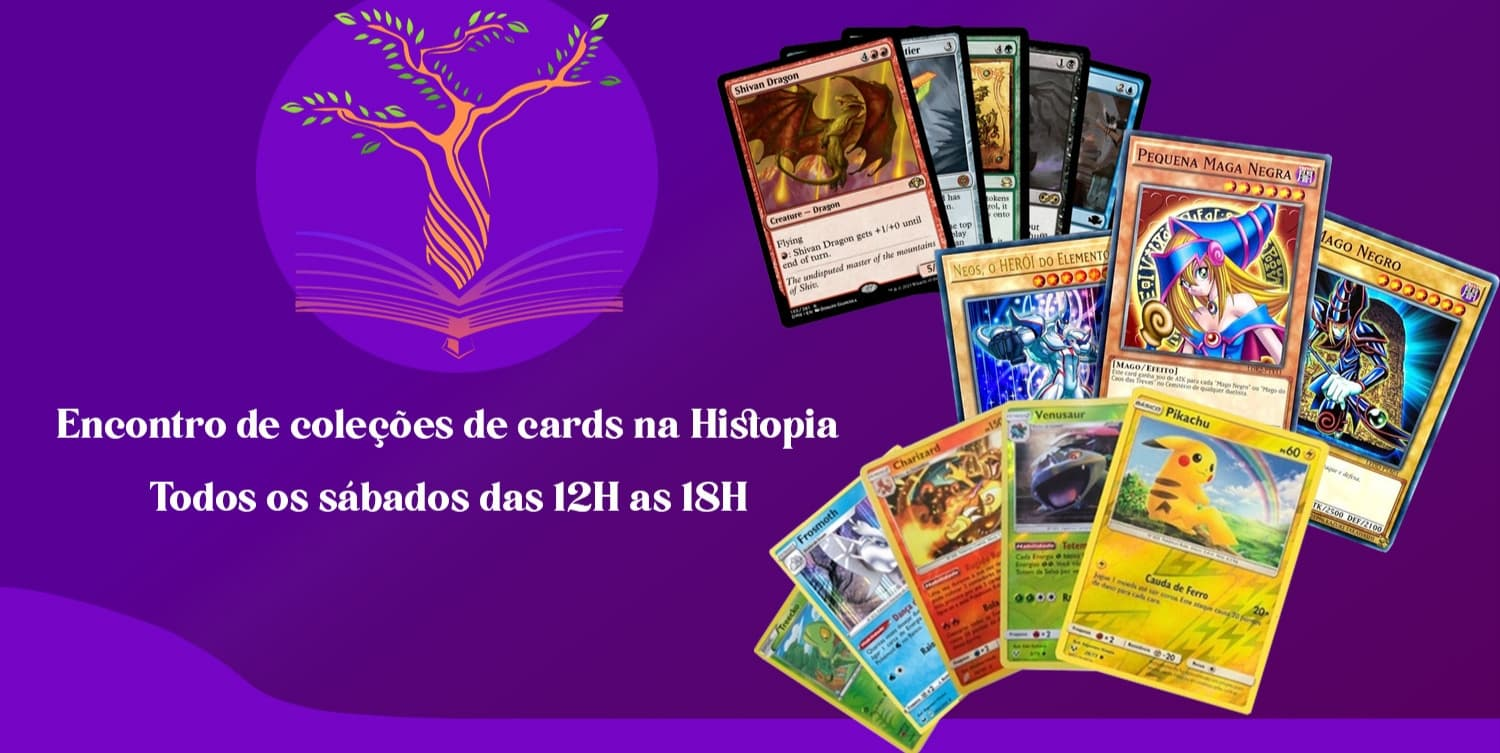
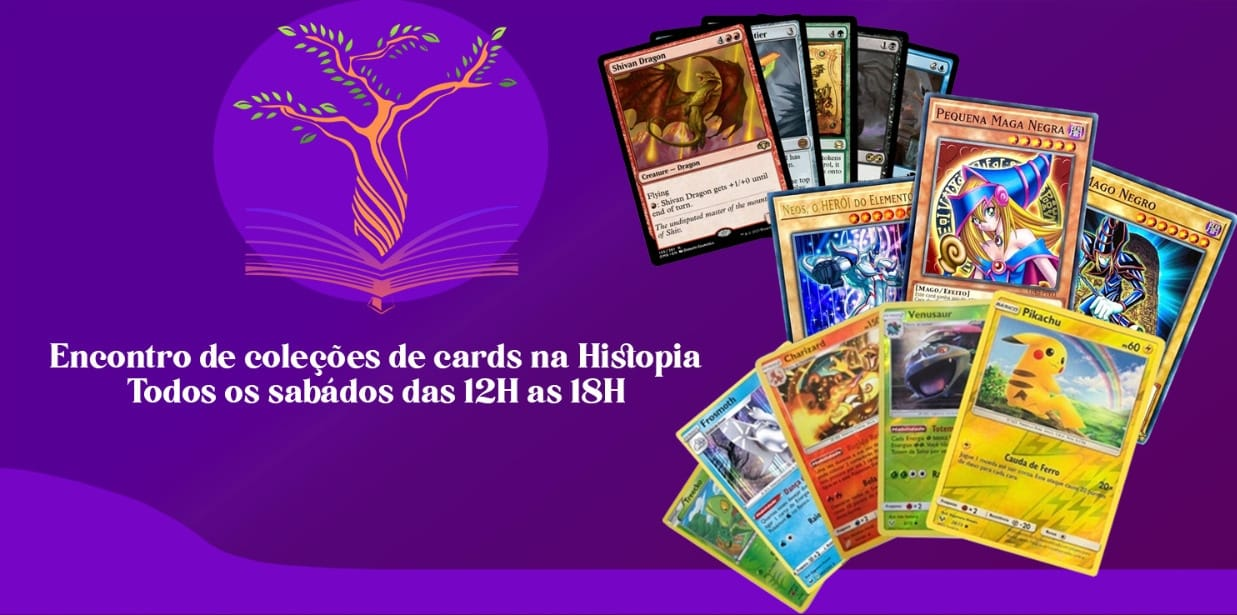
Arrumando defeitos

diff --git a/src/css/estilo.css b/src/css/estilo.css
@@ -45,6 +45,7 @@ h2{
 }
 #imagens{
     width: 100%;
+    height: 550px;
     margin-bottom: 50px;
     margin-top: 100px;
 }
@@ -168,7 +169,6 @@ h2{
 }
 footer{
     background-color: #000925;
-    display:flex;
     padding-top: 100px;
 }
 footer p{
@@ -182,6 +182,10 @@ footer h6{
     color: white;
     display: flex;
     justify-content: center;
+}
+#icon2{
+    height: 150px;
+    width: 150px;
 }
 .tower{
     margin-left: 100px;
@@ -198,7 +202,13 @@ footer h6{
     margin-left: -360px;
     margin-top: 200px;
 }
-@media (max-width:700px) {
+#towers{
+    padding-left:100px;
+    display:flex;
+    justify-content: space-around;
+    align-items: center;
+}
+@media (max-width:500px) {
     header{
         height: 60px;
     }
@@ -216,13 +226,14 @@ footer h6{
         width: 150px;
     }
     h2{
-        font-size: 40px;
+        font-size: 35px;
     }
     p{
-        font-size: 15px;
+        font-size: 12px;
     }
     #imagens{
         margin-top: 60px;
+        height: 100%;
     }
     .logos{
         height: 40px;
@@ -238,7 +249,7 @@ footer h6{
         height: 140px;
     }
     .shorttxt{
-        width: 100px;
+        width: 90px;
     }
     .barra{
         margin-top: -30px;
@@ -276,9 +287,6 @@ footer h6{
     #ultimatedesc{
         width: 490px;
     }
-    footer{
-        flex-direction: column;
-    }
     footer p{
         font-size: 12px;
     }
@@ -286,13 +294,17 @@ footer h6{
         font-size: 20px;
     }
     #icon2{
-        width: 180px;
-        height: 180px;
+        width: 120px;
+        height: 120px;
         margin-left: 135px;
     }
     .tower{
         margin-left: 160px;
         margin-right: 0px;
         margin-top: 40px;
+    }
+    #towers{
+        padding-left: 0;
+        flex-direction: column;
     }
 }

diff --git a/index.html b/index.html
@@ -155,6 +155,7 @@
         <img src="src/assets/icone seta dire.png" class="seta">
     </div>
     <footer>
+        <div id="towers">
         <img src="src/assets/Logo histopia.png" id="icon2">
         <div class="tower">
             <h3>Suas Compras</h3>
@@ -170,6 +171,7 @@
             <p>Noticias</p>
             <p>Politica de privacidade</p>
             <p>Politica de cookies</p>
+        </div>
         </div>
         <div id="cadastro">
             <div id="symbols">
